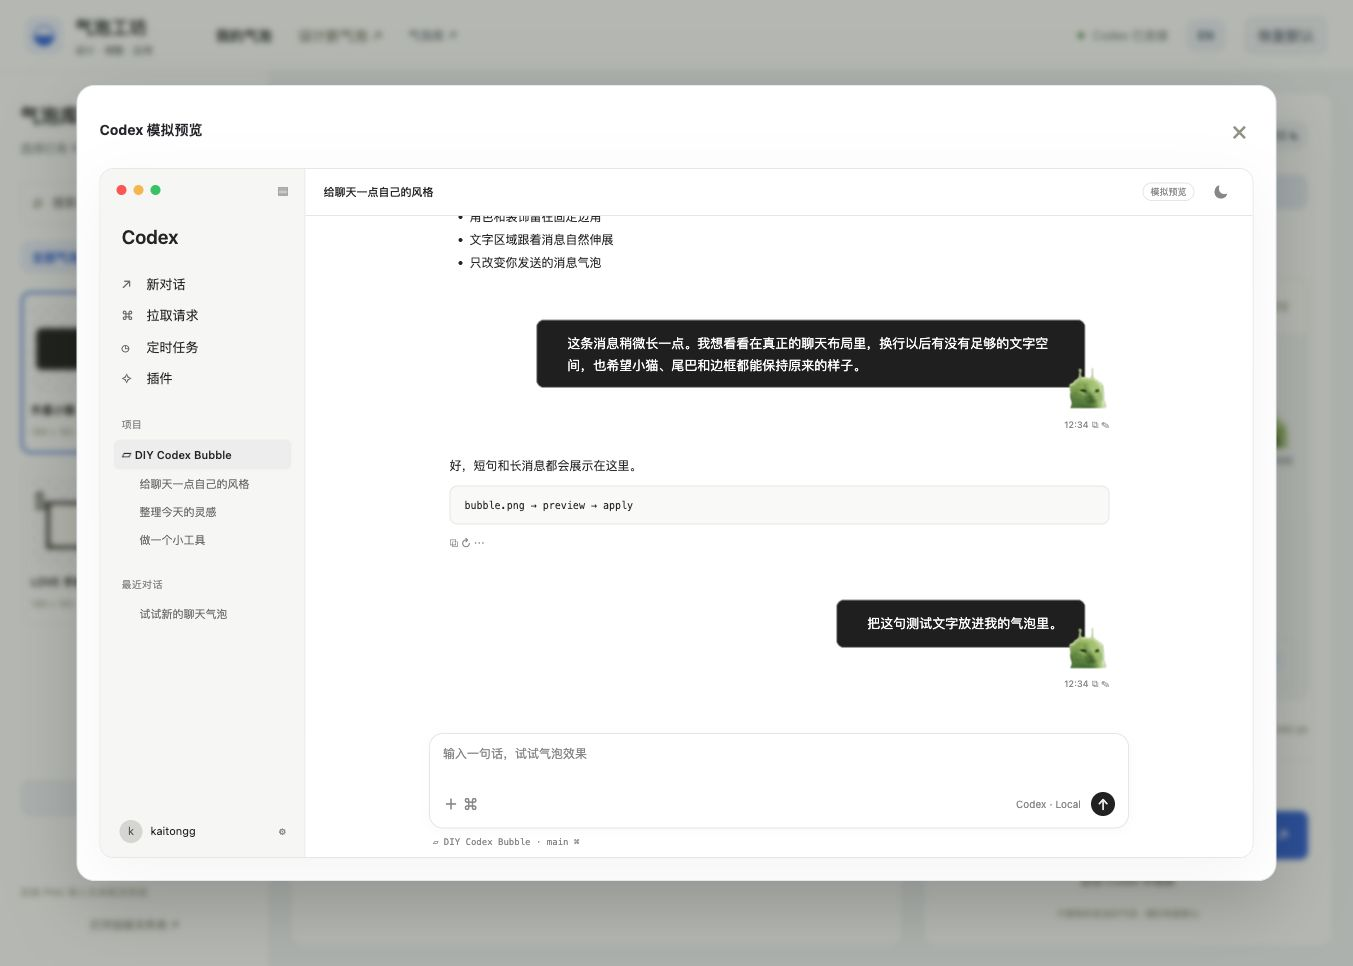
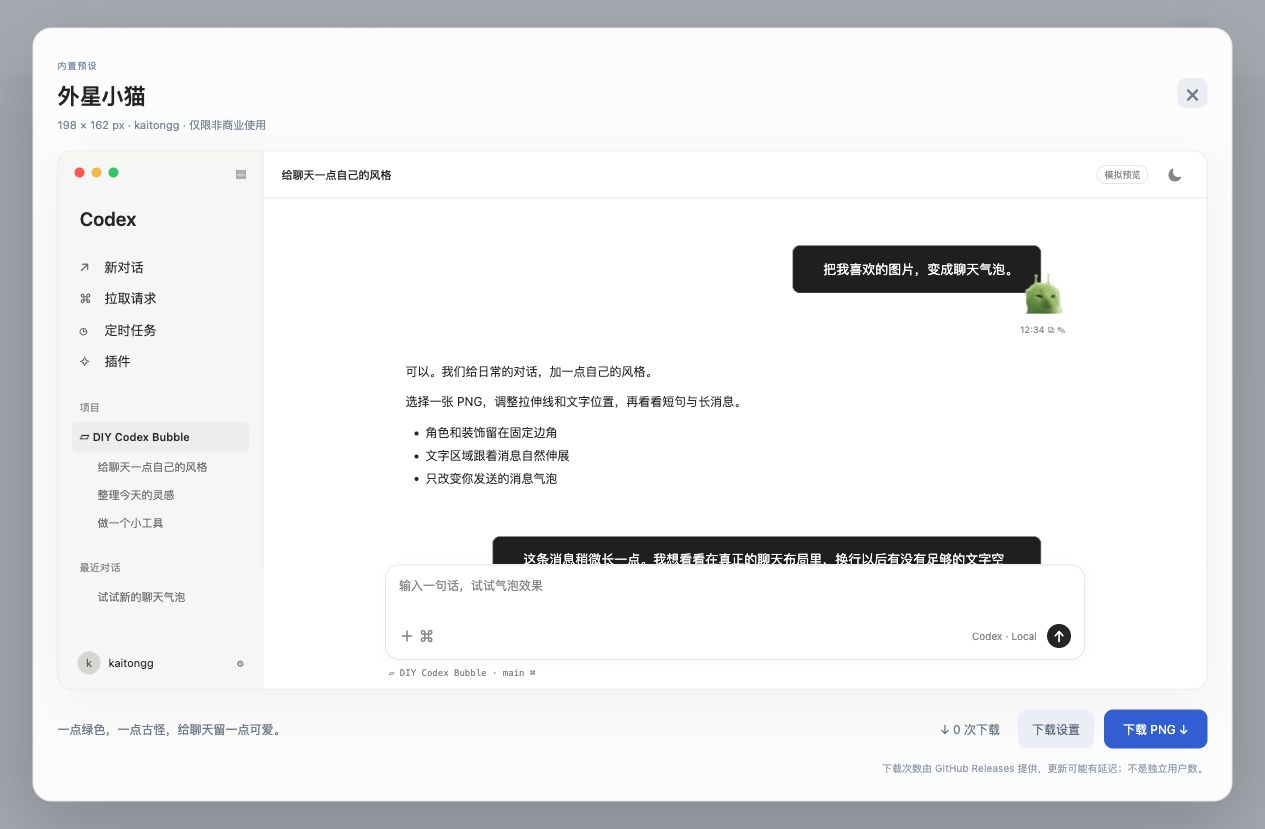
Verify published gallery and fit simulator in compact windows

diff --git a/app/static/codex-preview.css b/app/static/codex-preview.css
@@ -1,2 +1,4 @@
 .codex-sim{--sim-bg:#fff;--sim-side:#f7f7f6;--sim-ink:#292929;--sim-muted:#929291;--sim-line:#e9e9e7;--sim-surface:#fafaf9;display:grid;grid-template-columns:205px minmax(0,1fr);height:690px;max-height:78vh;width:100%;min-height:490px;border:1px solid var(--sim-line);border-radius:14px;overflow:hidden;background:var(--sim-bg);color:var(--sim-ink);font:13px/1.65 -apple-system,BlinkMacSystemFont,"Segoe UI",sans-serif;box-shadow:0 16px 60px #0000000b}.codex-sim.sim-dark{--sim-bg:#202020;--sim-side:#272727;--sim-ink:#e8e8e6;--sim-muted:#999;--sim-line:#373737;--sim-surface:#292929}.codex-sim *{box-sizing:border-box}.codex-sim .sim-sidebar{padding:15px 13px 14px;background:var(--sim-side);display:flex;flex-direction:column;border:0;border-right:1px solid var(--sim-line);min-width:0}.sim-window-controls{height:37px;display:flex;align-items:flex-start;gap:7px;padding:1px 3px}.sim-window-controls i{width:10px;height:10px;border-radius:50%;background:#fb625a}.sim-window-controls i.yellow{background:#f5bf4f}.sim-window-controls i.green{background:#37c96b}.sim-window-icon{margin-left:auto;color:var(--sim-muted);line-height:12px}.sim-brand{font-size:19px;font-weight:600;padding:0 8px;margin-bottom:16px}.sim-nav{display:flex;gap:10px;padding:5px 8px;color:var(--sim-ink)}.sim-icon{width:15px;color:#747474}.sim-section{color:var(--sim-muted);font-size:10px;letter-spacing:.3px;margin:22px 8px 7px}.sim-project{padding:6px 8px;border-radius:6px;background:#88888812;font-size:11px;font-weight:550}.sim-thread{padding:5px 8px 5px 26px;font-size:11px;white-space:nowrap;overflow:hidden;text-overflow:ellipsis;color:#777}.sim-dark .sim-thread{color:#bababa}.sim-account{display:flex;gap:8px;align-items:center;margin-top:auto;font-size:11px;padding:10px 6px 0}.sim-avatar{border-radius:50%;background:#dadbd7;color:#666;display:inline-flex;justify-content:center;align-items:center;width:23px;height:23px}.sim-settings{margin-left:auto;color:var(--sim-muted)}.sim-main{min-width:0;display:flex;flex-direction:column;background:var(--sim-bg)}.sim-toolbar{height:47px;display:flex;align-items:center;border-bottom:1px solid var(--sim-line);padding:0 18px;gap:12px}.sim-crumb{font-size:11px;font-weight:500;white-space:nowrap;overflow:hidden;text-overflow:ellipsis}.sim-badge{margin-left:auto;color:var(--sim-muted);border:1px solid var(--sim-line);padding:1px 7px;font-size:9px;border-radius:20px;white-space:nowrap}.codex-sim .sim-theme{background:transparent;color:var(--sim-muted);padding:3px 7px;border:0;cursor:pointer;font-size:16px}.sim-conversation{flex:1;min-height:0;overflow:auto;padding:26px max(26px,calc((100% - 660px)/2)) 18px;scrollbar-width:thin}.sim-user-turn{margin:0 0 23px}.sim-user-row{display:flex;justify-content:flex-end}.sim-user-bubble{position:relative;isolation:isolate;background:transparent;display:grid;align-content:center;max-width:min(100%,580px);width:fit-content;box-sizing:border-box;white-space:pre-wrap;overflow-wrap:anywhere;line-height:1.7;font-size:13px}.sim-user-bubble:before{content:"";position:absolute;inset:0;z-index:-1;background:var(--sim-art) 0 0/100% 100% no-repeat;border-radius:var(--sim-radius,0px);box-shadow:inset 0 0 0 var(--sim-border-width,0px) var(--sim-border-color,transparent)}.sim-message-tools{text-align:right;color:var(--sim-muted);font-size:9px;margin-top:8px}.sim-reply{margin:0 0 26px;font-size:12px;line-height:1.9}.sim-reply p{margin:0 0 8px}.sim-points{padding-left:20px;margin:8px 0}.sim-code{padding:10px 14px;border:1px solid var(--sim-line);background:var(--sim-surface);border-radius:8px;font:10px/1.7 ui-monospace,SFMono-Regular,monospace}.sim-reply-actions{color:var(--sim-muted);font-size:11px;margin-top:8px}.sim-composer-wrap{padding:0 max(20px,calc((100% - 700px)/2)) 10px;background:var(--sim-bg)}.sim-composer{border:1px solid var(--sim-line);border-radius:14px;background:var(--sim-bg);box-shadow:0 2px 12px #00000006;padding:10px 13px}.codex-sim .sim-input{display:block;width:100%;padding:0;resize:none;border:0;outline:0;box-shadow:none;background:transparent;color:var(--sim-ink);font:inherit;font-size:12px;line-height:1.6;min-height:38px}.sim-input::placeholder{color:var(--sim-muted)}.sim-composer-tools{display:flex;align-items:center;gap:10px;color:var(--sim-muted);margin-top:3px;font-size:10px}.sim-composer-left{font-size:16px;margin-right:auto}.codex-sim .sim-send{background:var(--sim-ink);color:var(--sim-bg);border-radius:50%;border:0;width:24px;height:24px;padding:0;cursor:pointer;font-size:15px}.sim-environment{color:var(--sim-muted);font:9px/1.6 ui-monospace,monospace;padding:6px 4px 0}.codex-sim button:hover{filter:brightness(.93)}@media(max-width:750px){.codex-sim{grid-template-columns:150px minmax(0,1fr)}.sim-sidebar{padding:12px 8px!important}.sim-thread{padding-left:15px}.sim-conversation{padding:22px 18px}.sim-composer-wrap{padding:0 14px 10px}.sim-nav{font-size:11px}}@media(max-width:520px){.codex-sim{grid-template-columns:1fr;height:620px}.codex-sim .sim-sidebar{display:none}.sim-conversation{padding:20px 14px}.sim-user-bubble{font-size:12px}.sim-crumb{max-width:140px}}
 .codex-sim .sim-main{min-height:0;overflow:hidden}.sim-toolbar,.sim-composer-wrap{flex-shrink:0}.codex-sim .sim-input{height:44px;min-height:44px;max-height:44px;margin:0}.sim-composer{margin:0}.sim-composer-wrap{padding-bottom:8px}
+
+.codex-sim{grid-template-rows:minmax(0,1fr)}.codex-sim .sim-sidebar{min-height:0;overflow:auto}

diff --git a/app/static/gallery.css b/app/static/gallery.css
@@ -1,2 +1,4 @@
 :root{--gallery-ink:#26282b;--gallery-muted:#858a93;--gallery-line:#e7e9ef;--gallery-blue:#4266db}*{box-sizing:border-box}body{margin:0;background:#fafbfc;color:var(--gallery-ink);font:14px/1.6 -apple-system,BlinkMacSystemFont,"Segoe UI",sans-serif}a{color:inherit;text-decoration:none}button,input{font:inherit}button{cursor:pointer;border:0;border-radius:9px}button:disabled{opacity:.5;cursor:wait}.gallery-header{height:78px;border-bottom:1px solid var(--gallery-line);background:#fff;display:flex;align-items:center;gap:40px;padding:0 max(30px,calc((100vw - 1160px)/2))}.gallery-brand{display:flex;gap:10px;align-items:center;font-size:23px;color:#4366d9}.gallery-brand strong{color:var(--gallery-ink);font-size:17px;font-weight:600}.gallery-header nav{display:flex;gap:24px;color:var(--gallery-muted);font-size:13px}.gallery-header nav span{color:var(--gallery-ink)}.language-button{margin-left:auto;background:#f0f3fa;color:#526785;height:34px;padding:0 12px;font-size:12px}.gallery-main{max-width:1160px;margin:0 auto;padding:50px 30px}.gallery-intro{display:flex;align-items:center;justify-content:space-between;gap:20px;margin-bottom:30px}.gallery-intro small{font-size:10px;letter-spacing:2px;color:#929bac}.gallery-intro h1{font-size:30px;letter-spacing:-.5px;font-weight:600;margin:12px 0 8px}.gallery-intro p{color:var(--gallery-muted);margin:0;font-size:13px}.upload-button{background:#fff;border:1px solid var(--gallery-line);padding:10px 16px;font-size:12px;color:#596272}.gallery-notice{display:flex;align-items:center;gap:12px;background:#f0f3f9;border:1px solid #e5eaf4;border-radius:10px;padding:10px 14px;color:#717d92;font-size:11px;margin-bottom:26px}.gallery-notice span{white-space:nowrap;color:#5a6b88;font-weight:600}.gallery-notice p{margin:0}.preset-grid{display:grid;grid-template-columns:repeat(3,minmax(0,1fr));gap:22px}.preset-card{padding:0;display:block;text-align:left;overflow:hidden;border:1px solid var(--gallery-line);border-radius:15px;background:#fff;transition:transform .15s,box-shadow .15s}.preset-card:hover{transform:translateY(-3px);box-shadow:0 12px 30px #2d38410b}.preset-card-art{height:230px;background:#f4f5f6;display:flex;align-items:center;justify-content:center;padding:25px;border-bottom:1px solid var(--gallery-line);position:relative}.preset-card:nth-child(2) .preset-card-art{background:#f7f6f2}.preset-card:nth-child(3) .preset-card-art{background:#f3f5f0}.preset-card img{max-width:100%;max-height:170px;object-fit:contain}.preset-label{position:absolute;left:14px;top:14px;font-size:9px;background:#ffffffbb;color:#848b96;padding:3px 8px;border:1px solid #fff;border-radius:20px}.preset-card-info{padding:18px}.preset-card-info h2{font-size:16px;font-weight:600;margin:0 0 7px}.preset-card-info p{font-size:11px;color:#8c93a0;margin:0}.preset-card-meta{margin-top:18px;display:flex;justify-content:space-between;align-items:center;font-size:11px;color:#939aa7}.preset-card-meta .count{color:#5f6c84}.gallery-license{color:#9ca3ae;font-size:11px;text-align:center;margin-top:36px}.detail-dialog{padding:24px;border:1px solid var(--gallery-line);border-radius:19px;width:min(1200px,96vw);max-width:96vw;max-height:95vh;overflow:auto;box-shadow:0 25px 80px #0003;color:var(--gallery-ink);background:#fcfcfd}.detail-dialog::backdrop{background:#27304366;backdrop-filter:blur(4px)}.detail-top{display:flex;justify-content:space-between;align-items:center;margin-bottom:17px;gap:15px}.detail-kind{font-size:9px;color:#8692a8;letter-spacing:1px}.detail-top h2{font-size:22px;font-weight:600;margin:3px 0}.detail-top p{font-size:11px;color:#8b93a1;margin:0}.close-detail{background:#edf0f5;color:#808796;font-size:24px;line-height:1;width:30px;height:30px}.detail-bottom{display:flex;justify-content:space-between;align-items:center;gap:20px;padding-top:20px}.detail-bottom>p{font-size:12px;color:#7b8493;margin:0;max-width:400px}.detail-bottom>div{display:flex;align-items:center;gap:10px;flex-wrap:wrap;justify-content:flex-end}.download-count{font-size:12px;color:#7c8798;margin-right:8px}.download-button{background:var(--gallery-blue);color:#fff;padding:10px 19px;font-size:12px}.secondary-button{background:#eef1f7;color:#647084;padding:10px 14px;font-size:12px}.detail-hint{display:block;text-align:right;color:#a2a8b4;font-size:10px;margin-top:12px}.gallery-toast{position:fixed;bottom:24px;left:50%;transform:translateX(-50%);padding:11px 18px;border-radius:10px;background:#303a50;color:#fff;font-size:12px;z-index:100}.gallery-toast[hidden]{display:none}.detail-dialog .codex-sim{height:640px;max-height:65vh;min-height:440px}@media(max-width:850px){.preset-grid{grid-template-columns:repeat(2,minmax(0,1fr))}.gallery-header{padding:0 22px;gap:22px}.gallery-main{padding:35px 22px}.detail-bottom{align-items:flex-start;flex-direction:column}.detail-bottom>div{justify-content:flex-start}.detail-hint{text-align:left}}@media(max-width:550px){.preset-grid{grid-template-columns:1fr}.gallery-header nav{display:none}.gallery-intro{align-items:flex-start;flex-direction:column}.gallery-intro h1{font-size:25px}.gallery-notice{align-items:flex-start;flex-direction:column;gap:3px}.detail-dialog{padding:14px}.detail-dialog .codex-sim{min-height:490px}.detail-top h2{font-size:19px}.detail-bottom>div{gap:7px}}
 .gallery-submission{text-align:center;color:#838fa5;font-size:11px;margin:8px 0}
+
+[hidden]{display:none!important}

diff --git a/app/static/gallery.html b/app/static/gallery.html
@@ -1,5 +1,5 @@
 <!doctype html><html lang="zh-CN"><meta charset="utf-8"><meta name="viewport" content="width=device-width,initial-scale=1"><title>气泡库 · DIY Codex Bubble</title><link rel="stylesheet" href="/gallery.css"><link rel="stylesheet" href="/codex-preview.css"><body>
 <header class="gallery-header"><a class="gallery-brand" href="/">◒ <strong>DIY Codex Bubble</strong></a><nav><a href="/">气泡工坊</a><span>气泡库</span></nav><button id="language" class="language-button">EN</button></header>
-<main class="gallery-main"><section class="gallery-intro"><div><small>BUBBLES FOR YOUR EVERYDAY</small><h1>给聊天一点自己的风格。</h1><p>选一款气泡，放进 Codex 模拟页面里试试。</p></div><button id="upload" class="upload-button">预览自己的 PNG ↗</button></section><div class="gallery-notice"><span>本机社区原型</span><p>当前展示内置作品与本机下载次数；公共投稿、审核和全站统计尚未上线。</p></div><div id="cards" class="preset-grid"></div><p class="gallery-license">作者 kaitongg · 仅限非商业使用</p><p class="gallery-submission"><a href="https://github.com/kaitongg-bit/DIYcodex-bubble/blob/main/COMMUNITY.md#手动投稿" target="_blank" rel="noopener">投稿说明 · 作者手动审核收录 ↗</a></p></main>
+<main class="gallery-main"><section class="gallery-intro"><div><small>BUBBLES FOR YOUR EVERYDAY</small><h1>给聊天一点自己的风格。</h1><p>选一款气泡，放进 Codex 模拟页面里试试。</p></div><button id="upload" class="upload-button">预览自己的 PNG ↗</button></section><div class="gallery-notice"><span>本机社区原型</span><p>当前展示内置作品与本机下载次数；公开作品库另由作者手动审核发布。</p></div><div id="cards" class="preset-grid"></div><p class="gallery-license">作者 kaitongg · 仅限非商业使用</p><p class="gallery-submission"><a href="https://github.com/kaitongg-bit/DIYcodex-bubble/blob/main/COMMUNITY.md#手动投稿" target="_blank" rel="noopener">投稿说明 · 作者手动审核收录 ↗</a></p></main>
 <dialog id="detail" class="detail-dialog"><div class="detail-top"><div><span id="detailKind" class="detail-kind"></span><h2 id="detailName"></h2><p id="detailMeta"></p></div><button id="closeDetail" class="close-detail" aria-label="关闭预览">×</button></div><div id="desktopPreview"></div><div class="detail-bottom"><p id="detailDescription"></p><div><span id="detailDownloads" class="download-count"></span><button id="downloadConfig" class="secondary-button">下载设置</button><button id="download" class="download-button">下载 PNG ↓</button></div></div><small id="downloadHint" class="detail-hint">下载次数按成功的本机下载请求计，不是独立用户数。</small></dialog>
 <input id="pngInput" type="file" accept="image/png" hidden><div id="galleryToast" class="gallery-toast" role="status" hidden></div><script type="module" src="/gallery.js"></script></body></html>
